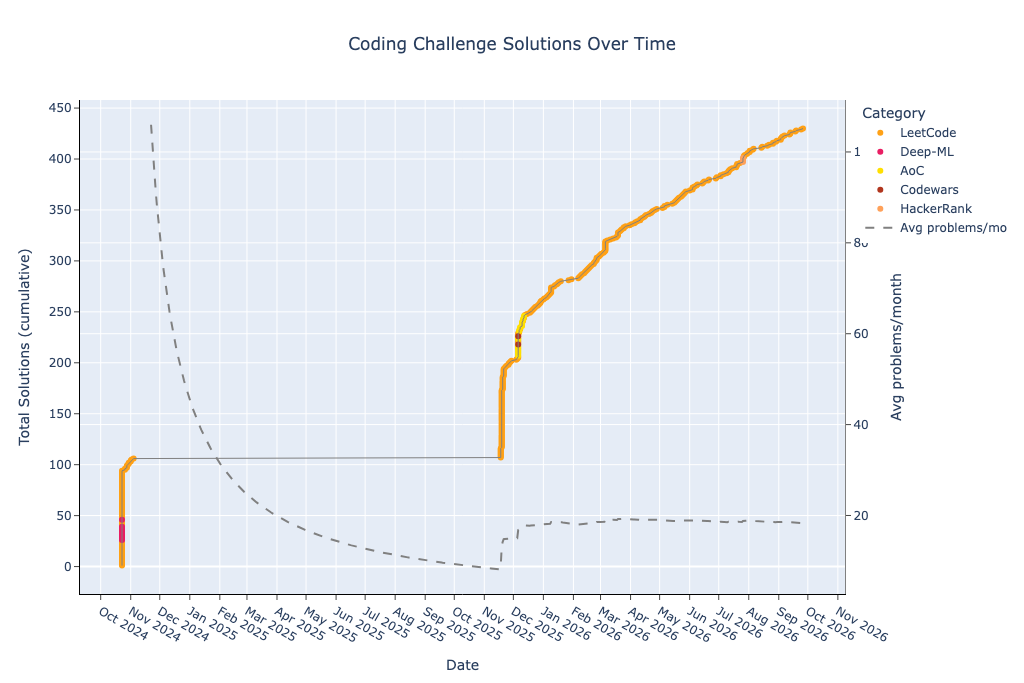
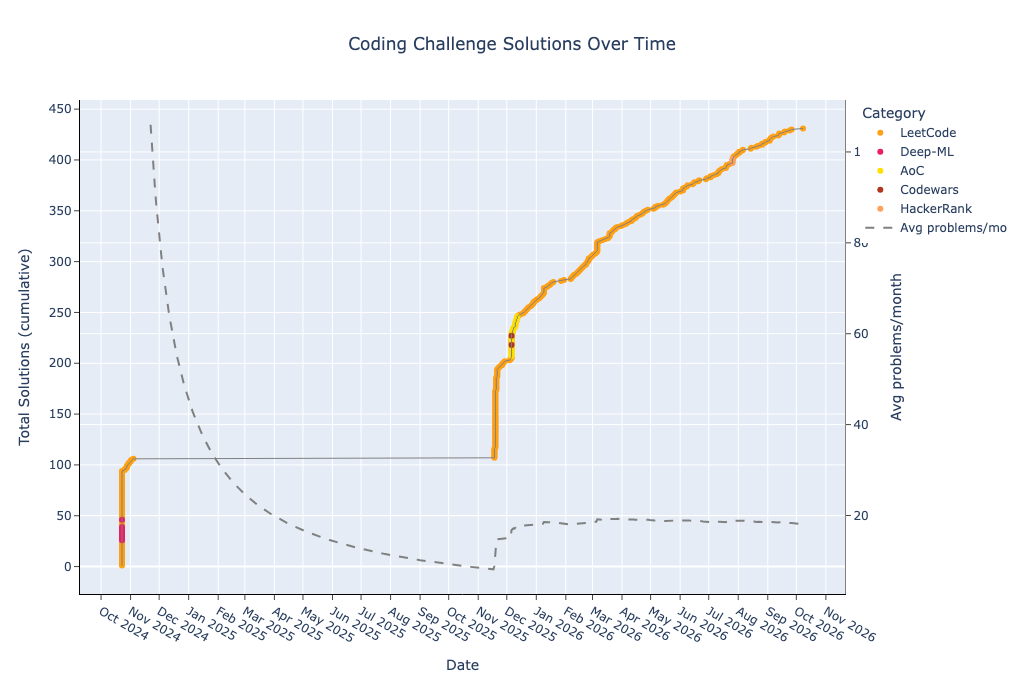
Regenerate README

diff --git a/leetcode/medium/856. Score of Parentheses.py b/leetcode/medium/856. Score of Parentheses.py
@@ -1,3 +1,5 @@
+# link: https://leetcode.com/problems/score-of-parentheses
+
 class Solution:
     def scoreOfParentheses(self, s: str) -> int:
         # O(n) time and space

diff --git a/README.md b/README.md
@@ -41,9 +41,9 @@ This repository contains a collection of coding problems solved on various platf
 | hackerrank-easy | 2 | 17 | 8 | 2 | 0 | 4 | 1 | 0 | 0 | 0 | 2 | 0 | 0 | 0 | 0 | 0 | 0 | 0 |
 | hackerrank-medium | 3 | 57 | 19 | 4 | 1 | 3 | 7 | 0 | 0 | 0 | 6 | 0 | 0 | 2 | 0 | 0 | 1 | 0 |
 | leetcode-easy | 138 | 2257 | 16 | 189 | 6 | 181 | 173 | 51 | 6 | 17 | 226 | 4 | 7 | 16 | 1 | 0 | 16 | 0 |
-| leetcode-medium | 210 | 5331 | 25 | 370 | 9 | 542 | 404 | 119 | 22 | 50 | 455 | 7 | 43 | 65 | 11 | 29 | 31 | 7 |
+| leetcode-medium | 211 | 5356 | 25 | 371 | 9 | 544 | 405 | 120 | 22 | 50 | 456 | 7 | 43 | 65 | 11 | 29 | 31 | 7 |
 | leetcode-hard | 37 | 1164 | 31 | 67 | 5 | 109 | 99 | 24 | 11 | 17 | 84 | 3 | 7 | 15 | 8 | 5 | 9 | 9 |
-| **total** | 430 | 10250 | 23 | 739 | 22 | 975 | 852 | 200 | 40 | 97 | 882 | 27 | 68 | 114 | 22 | 39 | 60 | 16 |
+| **total** | 431 | 10275 | 23 | 740 | 22 | 977 | 853 | 201 | 40 | 97 | 883 | 27 | 68 | 114 | 22 | 39 | 60 | 16 |
 
 ---
 
@@ -51,6 +51,7 @@ This repository contains a collection of coding problems solved on various platf
 
 | Date | Type | Challenge | Problem | Solution |
 | --- | --- | --- | --- | --- |
+| 2026-10-08 | LeetCode Medium | Score of Parentheses | N/A | [python](leetcode/medium/856.%20Score%20of%20Parentheses.py) |
 | 2026-09-26 | LeetCode Medium | Evaluate the Bracket Pairs of a String | [leetcode.com](https://leetcode.com/problems/evaluate-the-bracket-pairs-of-a-string/) | [python](leetcode/medium/1807.%20Evaluate%20the%20Bracket%20Pairs%20of%20a%20String.py) |
 | 2026-09-24 | LeetCode Easy | Smallest Index With Digit Sum Equal to Index | [leetcode.com](https://leetcode.com/problems/smallest-index-with-digit-sum-equal-to-index/) | [python](leetcode/easy/3550.%20Smallest%20Index%20With%20Digit%20Sum%20Equal%20to%20Index.py) |
 | 2026-09-19 | LeetCode Medium | Circle and Rectangle Overlapping | [leetcode.com](https://leetcode.com/problems/circle-and-rectangle-overlapping/) | [python](leetcode/medium/1401.%20Circle%20and%20Rectangle%20Overlapping.py) |
@@ -60,7 +61,6 @@ This repository contains a collection of coding problems solved on various platf
 | 2026-09-12 | LeetCode Easy | Unique 3-Digit Even Numbers | [leetcode.com](https://leetcode.com/problems/unique-3-digit-even-numbers/) | [python](leetcode/easy/3483.%20Unique%203-Digit%20Even%20Numbers.py) |
 | 2026-09-07 | LeetCode Hard | Distinct Subsequences II | [leetcode.com](https://leetcode.com/problems/distinct-subsequences-ii/) | [python](leetcode/hard/940.%20Distinct%20Subsequences%20II.py) |
 | 2026-09-05 | LeetCode Medium | Smallest Stable Index II | [leetcode.com](https://leetcode.com/problems/smallest-stable-index-ii/) | [python](leetcode/medium/3904.%20Smallest%20Stable%20Index%20II.py) |
-| 2026-09-04 | LeetCode Easy | Smallest Stable Index I | [leetcode.com](https://leetcode.com/problems/smallest-stable-index-i/) | [python](leetcode/easy/3903.%20Smallest%20Stable%20Index%20I.py) |
 # Advent of Code
 ### 2025
 | Day | Challenge | Time | Space | Problem | Solution |
@@ -369,6 +369,7 @@ This repository contains a collection of coding problems solved on various platf
 | 835 | Image Overlap | O(n^4) | O(1) | [leetcode.com](https://leetcode.com/problems/image-overlap/) | [python](leetcode/medium/835.%20Image%20Overlap.py) |
 | 840 | Magic Squares In Grid | O(n) | O(1) | [leetcode.com](https://leetcode.com/problems/magic-squares-in-grid) | [python](leetcode/medium/840.%20Magic%20Squares%20In%20Grid.py) |
 | 852 | Peak Index in a Mountain Array | O(n) | O(1) | [leetcode.com](https://leetcode.com/problems/peak-index-in-a-mountain-array/description/) | [python](leetcode/medium/852.%20Peak%20Index%20in%20a%20Mountain%20Array.py) |
+| 856 | Score of Parentheses | O(n) | O(n) | N/A | [python](leetcode/medium/856.%20Score%20of%20Parentheses.py) |
 | 861 | Score After Flipping Matrix | O(n * m) | O(1) | [leetcode.com](https://leetcode.com/problems/score-after-flipping-matrix/) | [python](leetcode/medium/861.%20Score%20After%20Flipping%20Matrix.py) |
 | 865 | Smallest Subtree with all the Deepest Nodes | O(n) | O(n) | [leetcode.com](https://leetcode.com/problems/smallest-subtree-with-all-the-deepest-nodes) | [python](leetcode/medium/865.%20Smallest%20Subtree%20with%20all%20the%20Deepest%20Nodes.py) |
 | 874 | Walking Robot Simulation | O(n) | O(1) | [leetcode.com](https://leetcode.com/problems/walking-robot-simulation/description) | [python](leetcode/medium/874.%20Walking%20Robot%20Simulation.py) |

diff --git a/CHANGES.md b/CHANGES.md
@@ -4,6 +4,7 @@
 
 | Date | Type | Challenge | Problem | Solution |
 | --- | --- | --- | --- | --- |
+| 2026-10-08 | LeetCode Medium | Score of Parentheses | N/A | [python](leetcode/medium/856.%20Score%20of%20Parentheses.py) |
 | 2026-09-26 | LeetCode Medium | Evaluate the Bracket Pairs of a String | [leetcode.com](https://leetcode.com/problems/evaluate-the-bracket-pairs-of-a-string/) | [python](leetcode/medium/1807.%20Evaluate%20the%20Bracket%20Pairs%20of%20a%20String.py) |
 | 2026-09-24 | LeetCode Easy | Smallest Index With Digit Sum Equal to Index | [leetcode.com](https://leetcode.com/problems/smallest-index-with-digit-sum-equal-to-index/) | [python](leetcode/easy/3550.%20Smallest%20Index%20With%20Digit%20Sum%20Equal%20to%20Index.py) |
 | 2026-09-19 | LeetCode Medium | Circle and Rectangle Overlapping | [leetcode.com](https://leetcode.com/problems/circle-and-rectangle-overlapping/) | [python](leetcode/medium/1401.%20Circle%20and%20Rectangle%20Overlapping.py) |
@@ -13,4 +14,3 @@
 | 2026-09-12 | LeetCode Easy | Unique 3-Digit Even Numbers | [leetcode.com](https://leetcode.com/problems/unique-3-digit-even-numbers/) | [python](leetcode/easy/3483.%20Unique%203-Digit%20Even%20Numbers.py) |
 | 2026-09-07 | LeetCode Hard | Distinct Subsequences II | [leetcode.com](https://leetcode.com/problems/distinct-subsequences-ii/) | [python](leetcode/hard/940.%20Distinct%20Subsequences%20II.py) |
 | 2026-09-05 | LeetCode Medium | Smallest Stable Index II | [leetcode.com](https://leetcode.com/problems/smallest-stable-index-ii/) | [python](leetcode/medium/3904.%20Smallest%20Stable%20Index%20II.py) |
-| 2026-09-04 | LeetCode Easy | Smallest Stable Index I | [leetcode.com](https://leetcode.com/problems/smallest-stable-index-i/) | [python](leetcode/easy/3903.%20Smallest%20Stable%20Index%20I.py) |
